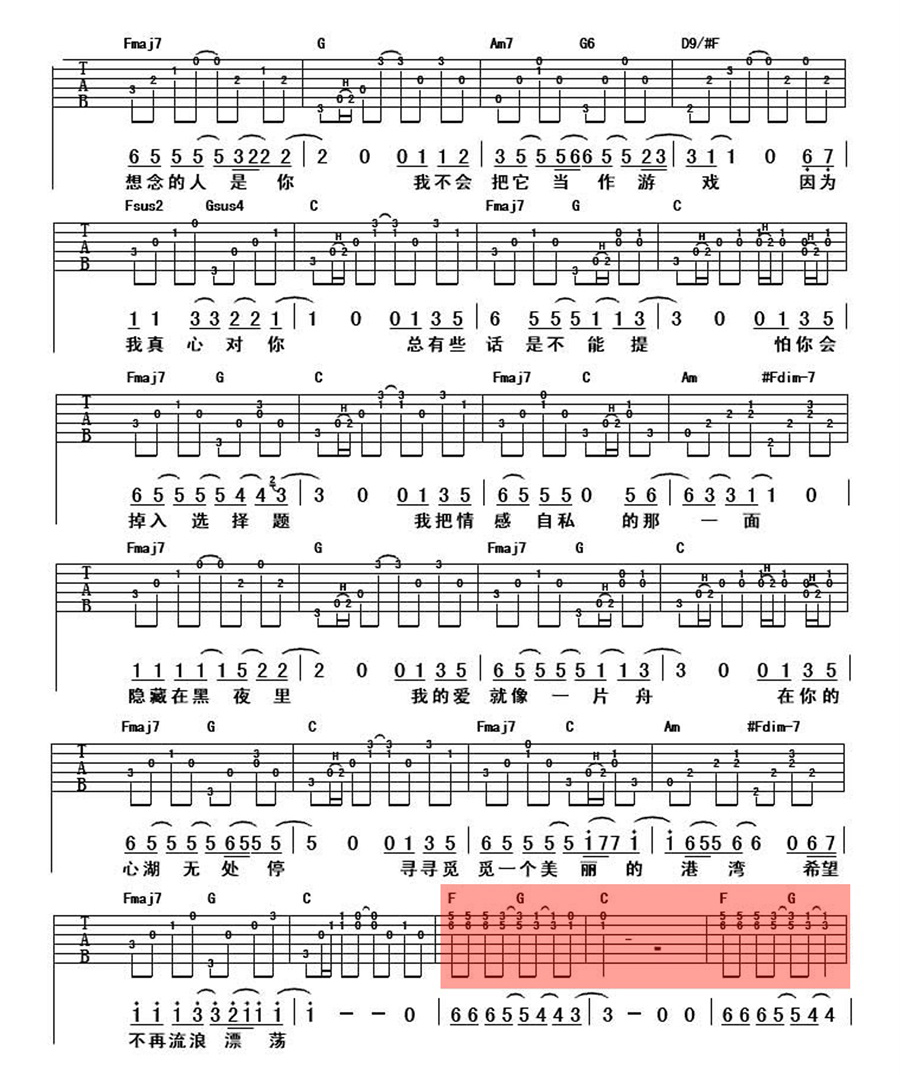
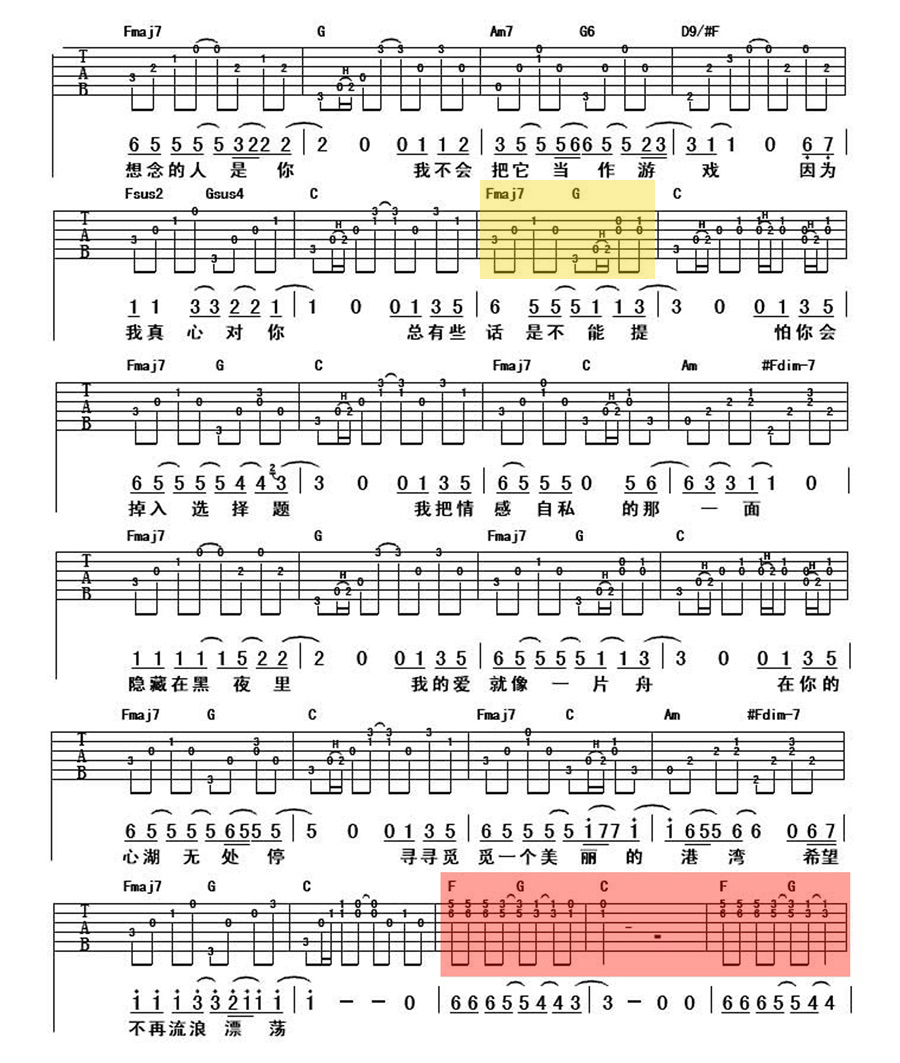
update a post

Changed region(s): [[0.0622, 0.0, 0.9644, 0.9934]]

diff --git a/posts/xiaoyu-guitar-solo-tab.html b/posts/xiaoyu-guitar-solo-tab.html
@@ -103,11 +103,12 @@
     <i class="fa fa-folder-o"></i>&nbsp;<a data-pjax href="http://blog.yyx.name/category/music.html">Music</a>
   </p>
   <div class="blog-post" >
-    <p>一直很喜欢阿岳的《小宇》，简单、真诚的情感流露。当然，这首情歌也成了泡妹子必备/必杀歌曲之一（虽然我不是这个目的你们爱信不信）。不过网络上大多只有主歌和副歌的和弦谱，比较完善的谱子虽然有前奏尾奏和Solo，但Solo部分普遍是双吉他配合的，因此没法一个人完成弹(zhuang)唱(x)。</p>
-<p>于是乎，寡人就想着自己捣鼓一个（听起来好牛X的样子）。可是因为拖延症就一直没搞…… 昨晚上突然大脑充血，“做个文艺B”的口号响彻脑门，趁着荷尔蒙还不知道是多巴胺还在，就草草编配了一下：</p>
+    <p>一直很喜欢阿岳的《小宇》，简单、真诚的情感流露。当然，这首青涩的情歌也成了泡妹子必备/必杀歌曲之一（虽然我不是这个目的你们爱信不信）。不过网络上大多只有主歌和副歌的和弦谱（Solo部分为和弦分解），比较完善的谱子虽然有前奏尾奏和独立Solo，但Solo部分普遍是双吉他配合的，因此没法一个人完成弹(zhuang)唱(x)，毕竟你不能和妹子单独约个会还叫上兄弟吧。</p>
+<p>于是乎，寡人就想着自己捣鼓一个（听起来好牛X的样子）。可是因为拖延症就一直没搞…… 昨晚上突然大脑充血，“做个文艺B”的口号响彻脑门，趁着荷尔蒙还不知道是多巴胺的那股劲儿，就草草编配了一下：</p>
 <p><img src="../statics/xiaoyu-guitar-solo-tab/xiaoyu-solo.jpg" /></p>
 <p>本Solo谱是根据下面这个主谱来编配，因此什么都得按照主谱子来：标准调弦降半音。</p>
-<p>下面上主谱，版权归www.jitaba.cn所有。其中我标红色的部分替换成我编配的Solo即可。</p>
+<p>下面上主谱，版权归原作者和www.jitaba.cn所有。其中我标红色的部分替换成我编配的Solo即可。</p>
+<p>需要注意的是，原版的伴奏从我标黄色的部分开始有鼓点的配合，因此请即兴加入闷音模仿鼓的节奏（推荐加在每小节第3拍），这样和Solo部分的感觉相似，可以平滑过渡，同时提升整个曲子的Feel。</p>
 <p><img src="../statics/xiaoyu-guitar-solo-tab/xiaoyu-1.jpg" /></p>
 <p><img src="../statics/xiaoyu-guitar-solo-tab/xiaoyu-2.jpg" /></p>
 <p><img src="../statics/xiaoyu-guitar-solo-tab/xiaoyu-3.jpg" /></p>
